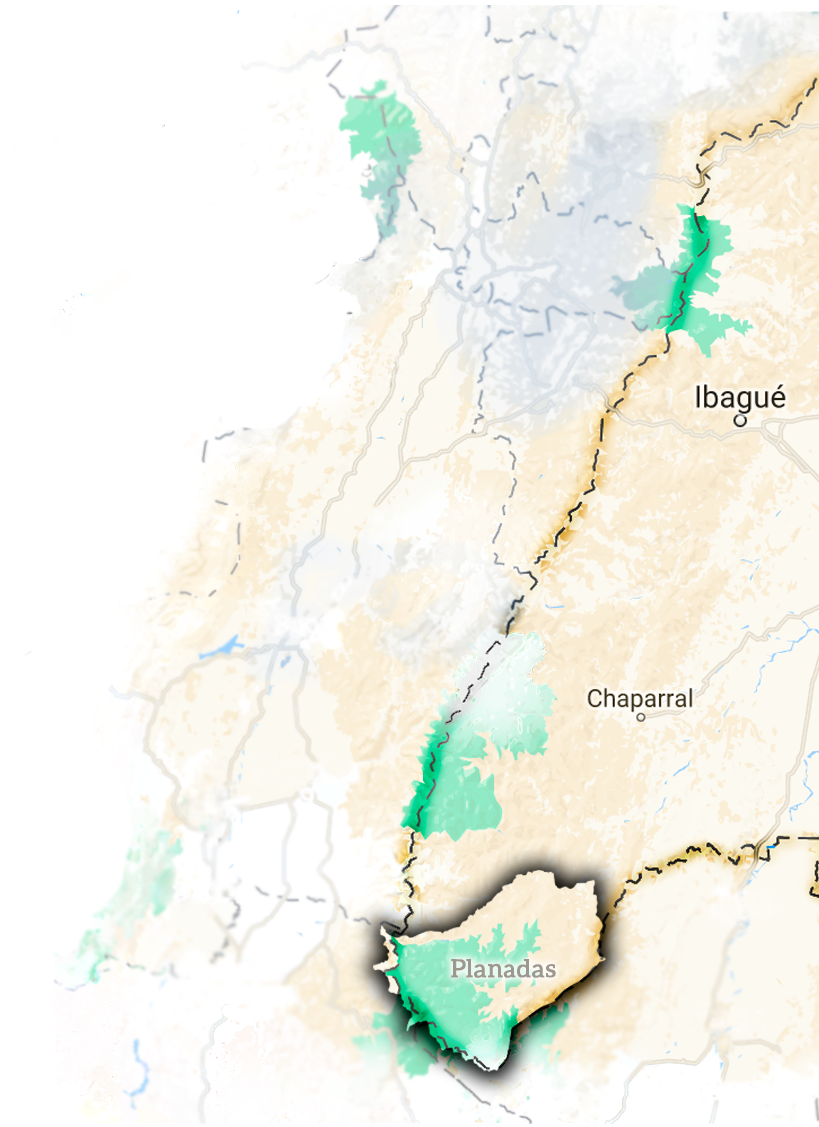
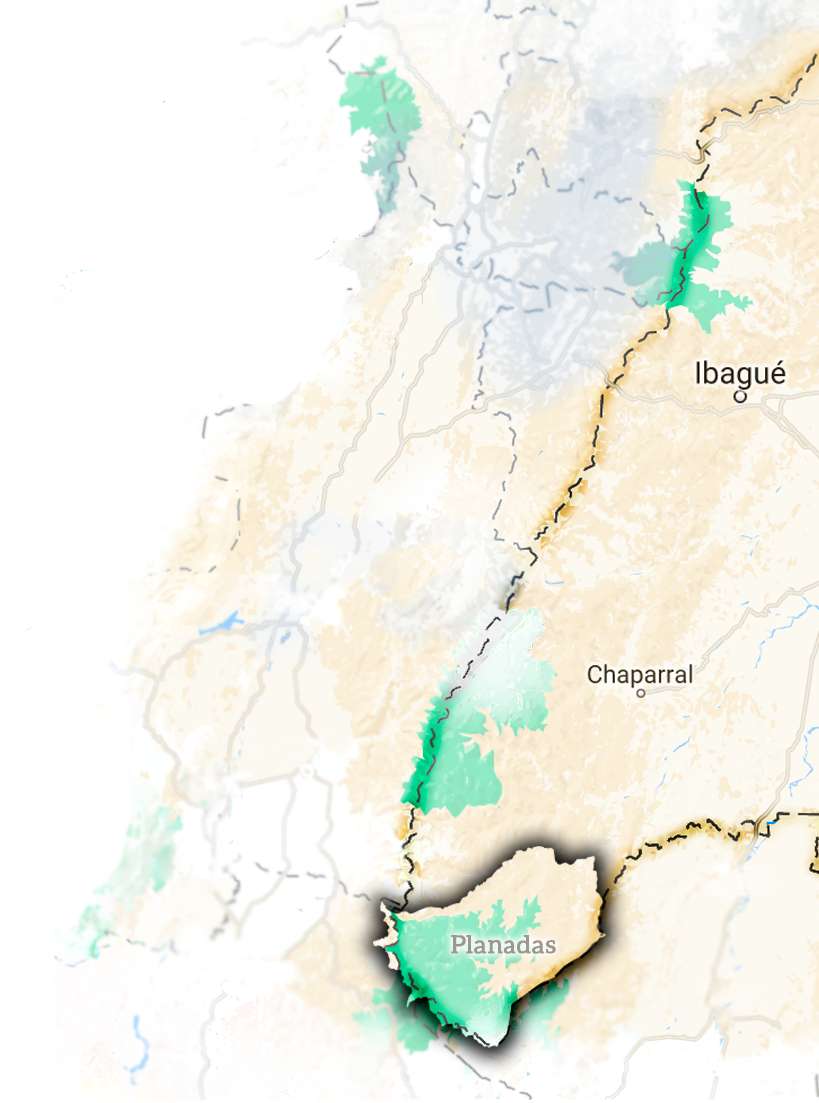
fixed

diff --git a/css/mainSingle.css b/css/mainSingle.css
@@ -11,11 +11,18 @@
 .theText p {
     font-family: 'Aleo Regular';
     font-size: 18px;
+    line-height: 31px;
+}
+.theText h4 {
+    font-family: 'Aleo Bold';
+    font-size: 24px;
+    margin-bottom: 30px;
 }
 .bgCover {
     background-size: cover;
     background-position: center center;
     background-repeat: no-repeat;
+    position: relative;
 }
 
 .theTitle {
@@ -47,4 +54,38 @@
     margin: 0 auto;
     bottom: 10%;
     cursor: pointer;
+}
+.borderTop {
+    position: absolute;
+    bottom: 0;
+    left: 0;
+    width: 100%;
+    height: 10px;
+    overflow: hidden;
+}
+.borderTop img {
+    width: 100%;
+}
+.bgMap {
+    position: absolute;
+    left: 0;
+    right: 0;
+    top: 25px;
+    width: 100%;
+    height: 100%;
+    z-index: -1;
+}
+
+/* .sectionMap1 {
+    position: relative;
+    top: -10px;
+} */
+.staticImage {
+    position: absolute;
+    top: 0;
+    right: 0;
+    z-index: -1;
+}
+.notOverFlow .fp-scrollable {
+    /* overflow: auto !important; */
 }

diff --git a/interna - copia.html b/interna - copia.html
@@ -28,7 +28,7 @@
             <div class="iconDown iconDownPosition js-iconDown"><i></i></div>
             <div class="borderTop"><img src="img/border-torn.png"></div>
         </div>
-        <div class="section page bgCover notOverFlow" style="background-image: url(img/mapa-single-1.png); background-attachment: fixed;">
+        <div class="section page bgCover notOverFlow" style="background-image: url(img/bgForMap1.png)">
             <div class="container">
                 <div class="row">
                     <div class="col-6">
@@ -60,6 +60,9 @@
                             como por ejemplo "Contenido aquí,contenido aquí".</p>
                         </div>
                     </div>
+                </div>
+                <div class="staticImage">
+                    <img src="img/mapa-single-1.png" alt="Mapa">
                 </div>
             </div>
         </div>
